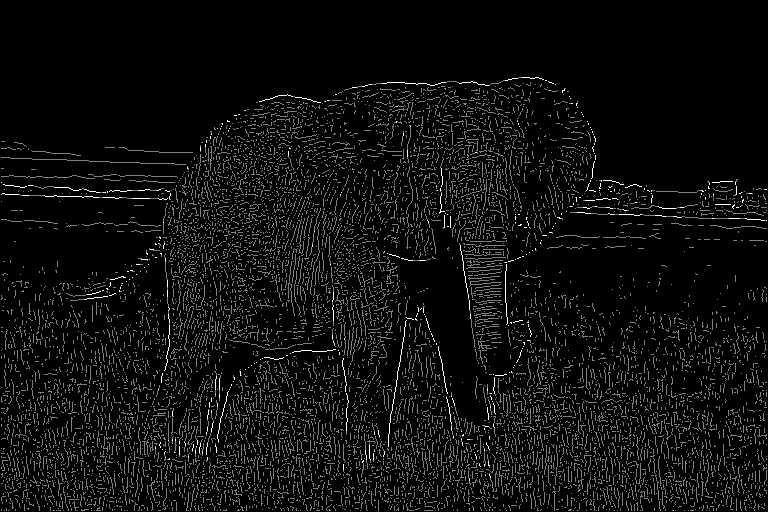
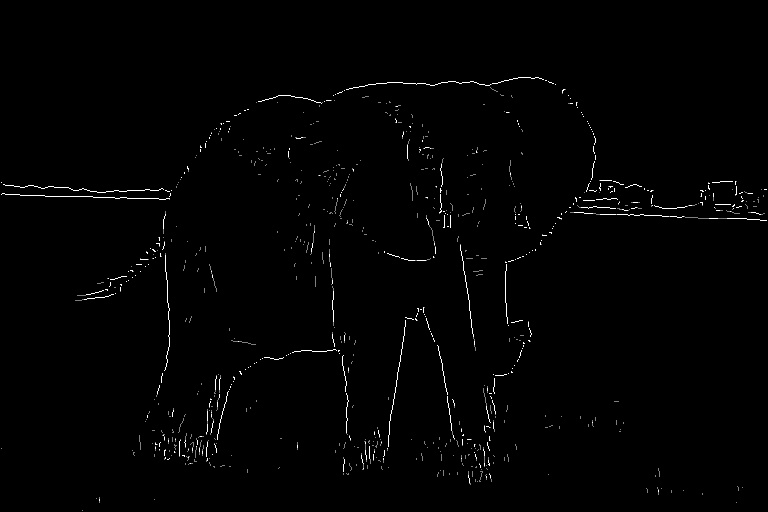
let image better

diff --git a/HW6/110590034_hw6.py b/HW6/110590034_hw6.py
@@ -55,7 +55,7 @@ def gaussian_filter(image, kernel_size, sigma):
 
 def sobel_filter(image):
     '''
-    Sobel filter
+    Sobel filter, get gradient magnitude and slope
     '''
     height = image.shape[0]
     width = image.shape[1]
@@ -179,6 +179,6 @@ def image(number, gaussian_kernel_size, sigma, double_threshold_low, double_thre
     cv2.imwrite(f'results/img{number}_sobel.jpg', edge_image)
 
 if __name__ == '__main__':
-    image(number=1, gaussian_kernel_size=5, sigma=1.7, double_threshold_low=0.05, double_threshold_high=0.5)
-    image(number=2, gaussian_kernel_size=5, sigma=1.7, double_threshold_low=0.15, double_threshold_high=0.3)
-    image(number=3, gaussian_kernel_size=3, sigma=1.3, double_threshold_low=0.18, double_threshold_high=0.2)
+    image(number=1, gaussian_kernel_size=5, sigma=1.7, double_threshold_low=0.7, double_threshold_high=0.45)
+    image(number=2, gaussian_kernel_size=7, sigma=1.7, double_threshold_low=0.7, double_threshold_high=0.25)
+    image(number=3, gaussian_kernel_size=3, sigma=1.3, double_threshold_low=0.2, double_threshold_high=0.19)
